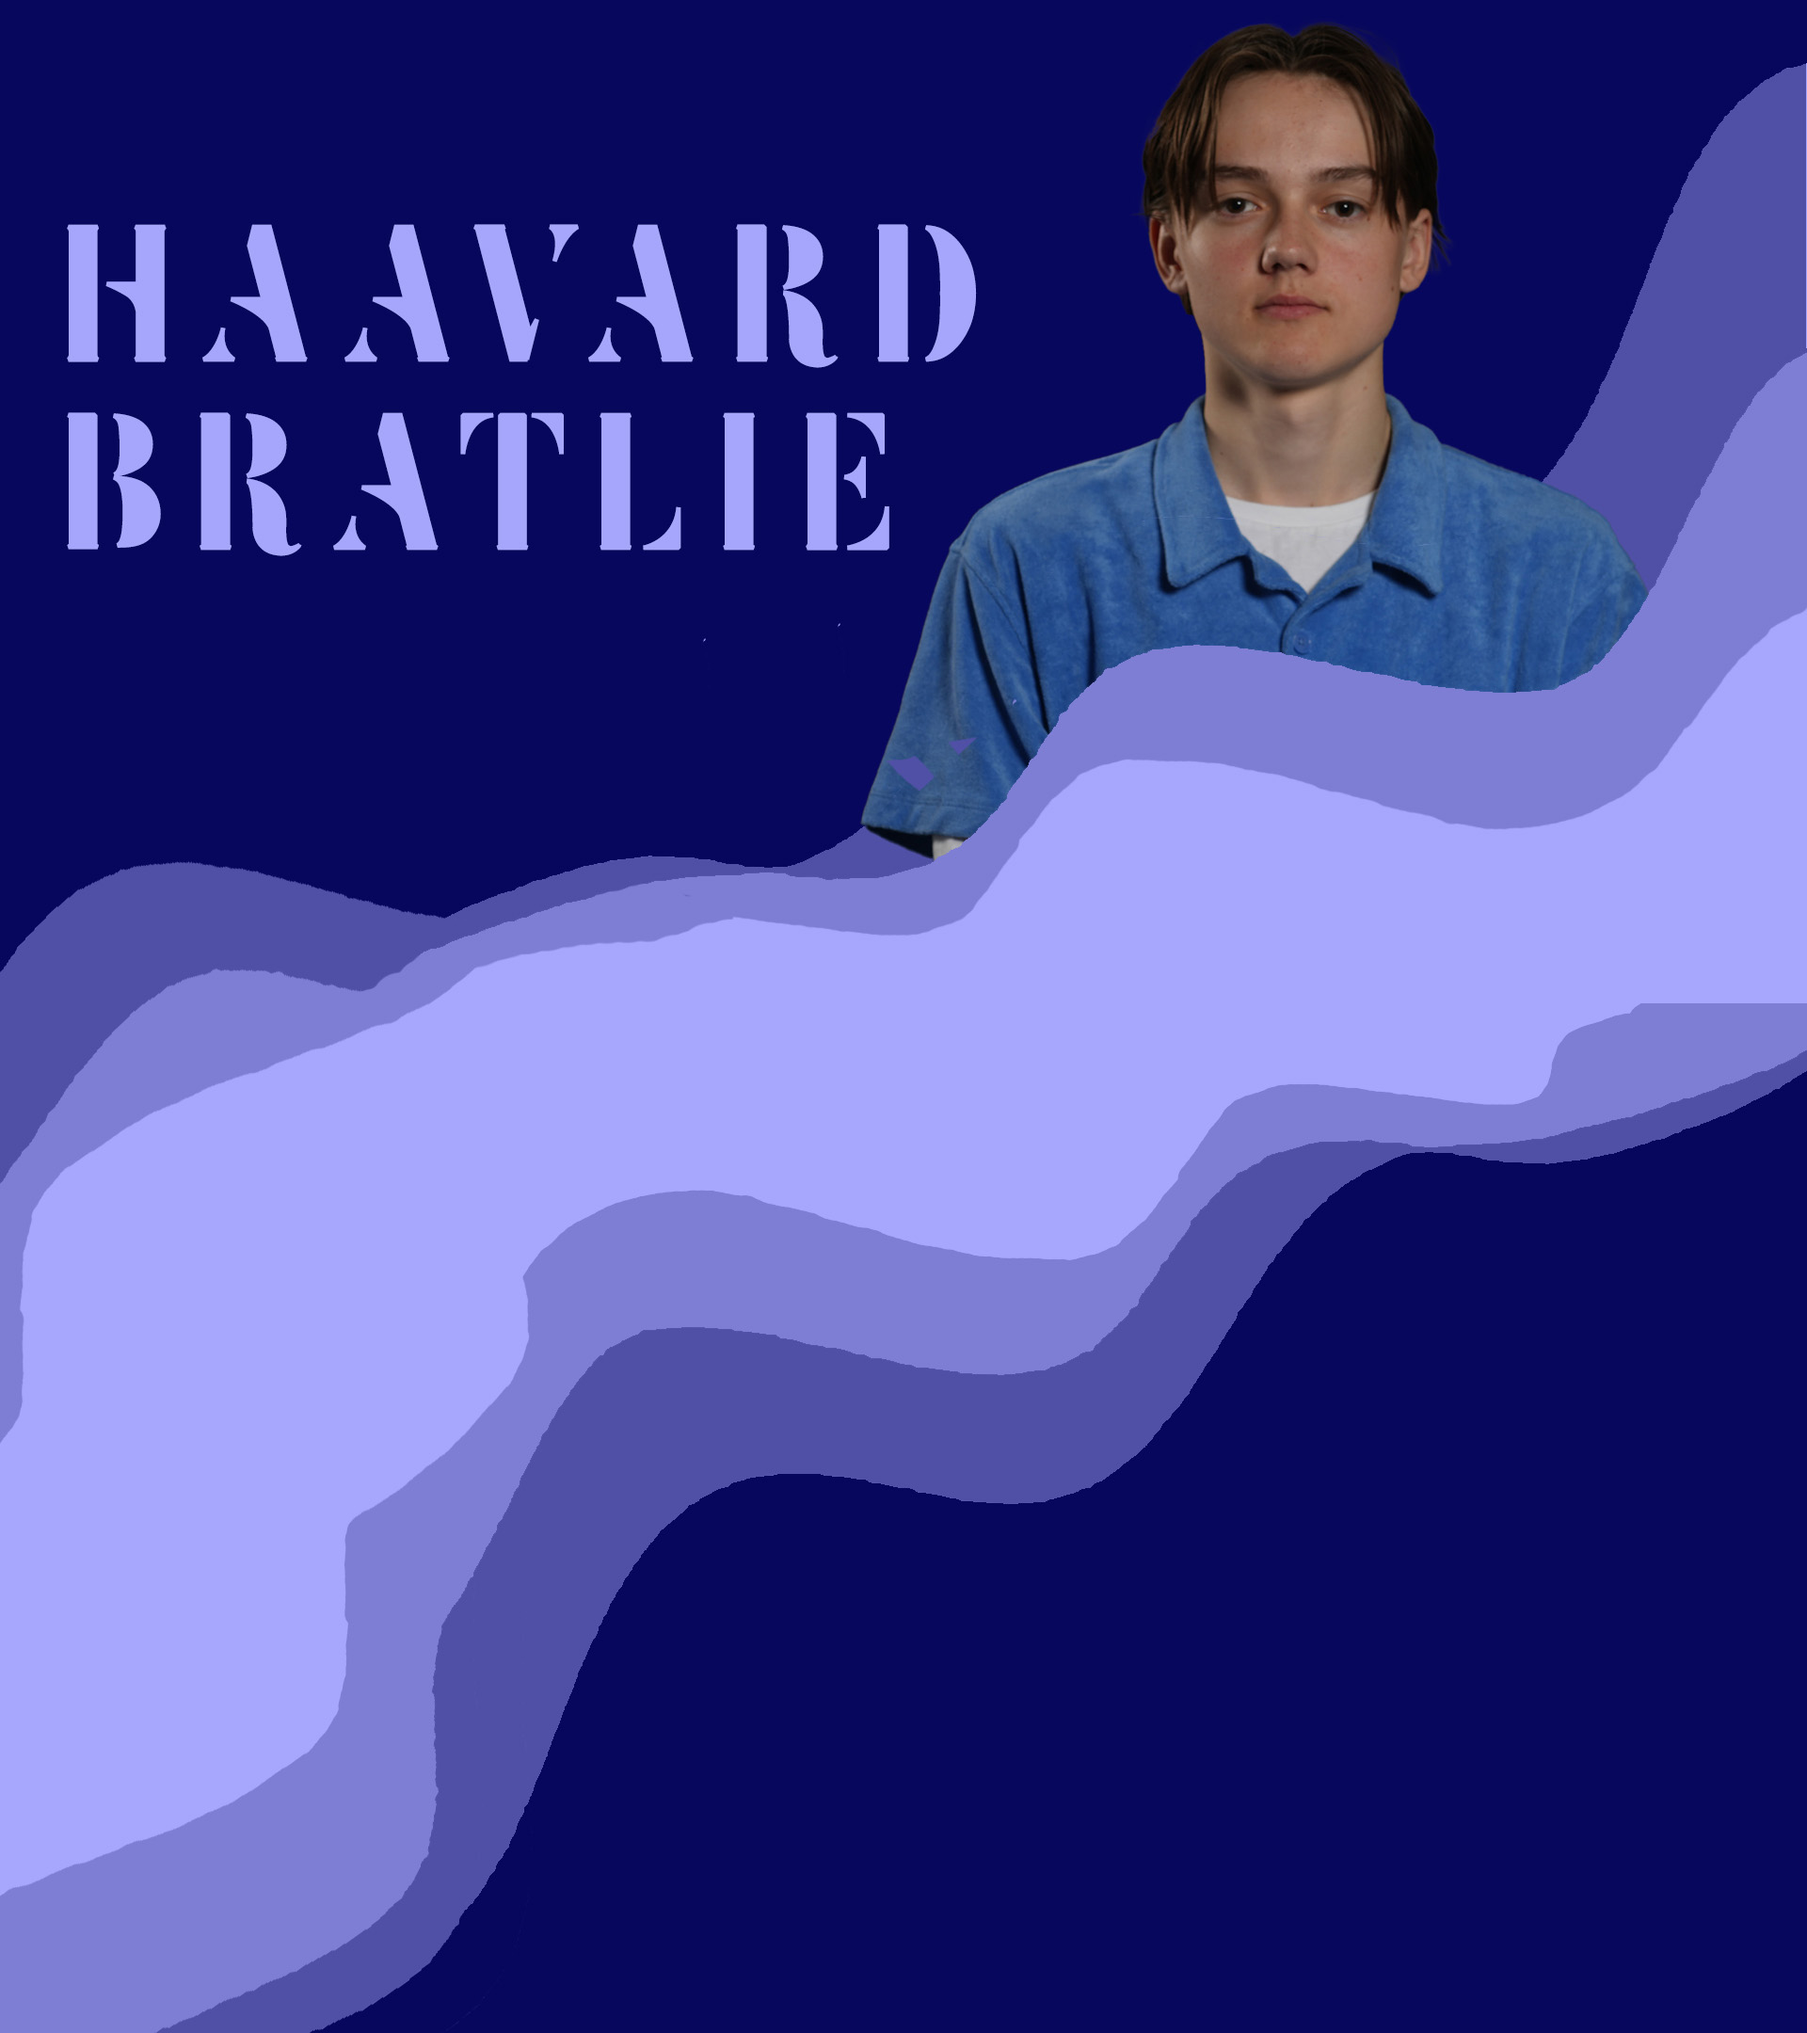
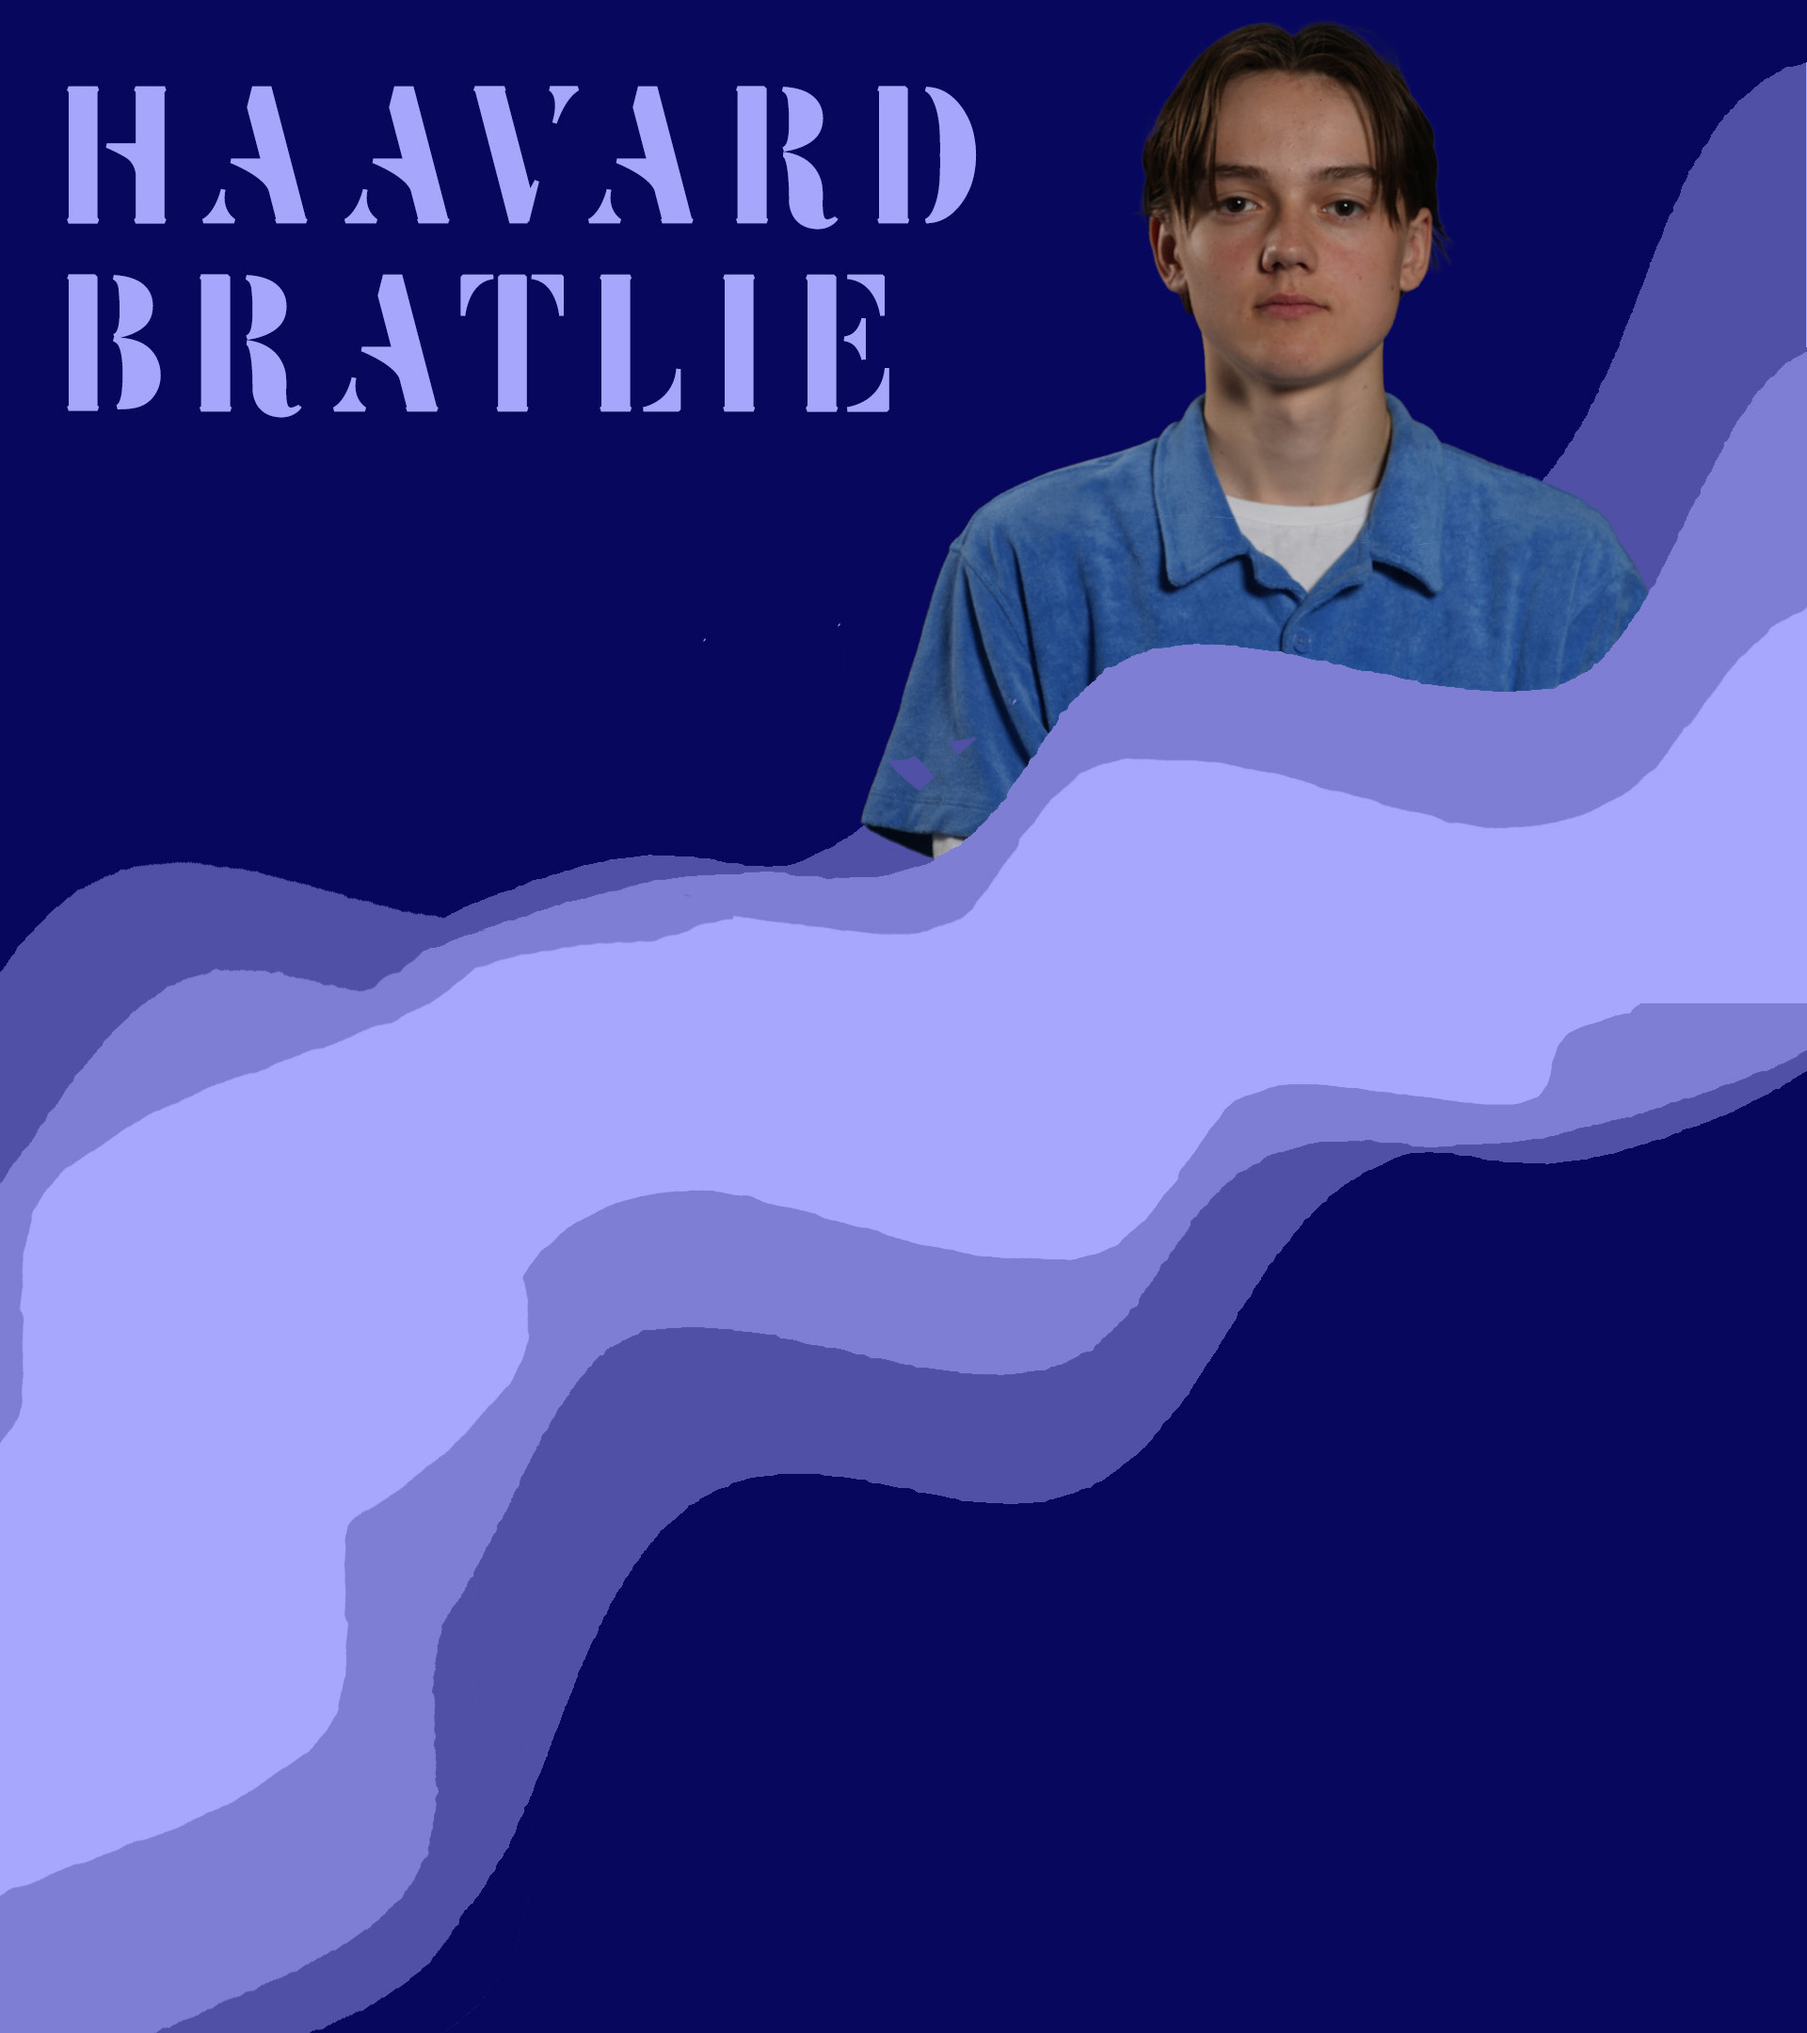
litt mer
styling av forms, endring av font, osv

Changed region(s): [[0.0312, 0.031, 0.5625, 0.2792]]

diff --git a/static/style.css b/static/style.css
@@ -2,9 +2,15 @@ body {
     margin: 0;
     z-index: 1;
     position: relative;
-    min-height: 220vh; /* Ensure the body is 200vh tall */
+    min-height: 100vh;
     display: flex;
-    flex-direction: column; /* Make the body a flex container */
+    flex-direction: column;
+    background-color: #07075d;
+    font-family: 'Poppins';
+}
+
+.home {
+    min-height: 210vh;
 }
 
 #bg::before {
@@ -14,54 +20,129 @@ body {
     top: 0;
     left: 0;
     width: 100%;
-    height: 200vh; /* Match the height of the body */
-    background-image: url('/static/bg_full_1920x2160.jpg'); /* Set the background image */
-    background-size: cover; /* Make the image cover the entire area */
-    background-repeat: no-repeat; /* Prevent the image from repeating */
-    background-position: top center; /* Move the image to start at the top and center it horizontally */
-    z-index: -1; /* Place it behind the content */
+    height: 200vh;
+    background-image: url('/static/bg_full_1920x2160.jpg');
+    background-size: cover;
+    background-repeat: no-repeat;
+    background-position: top center;
+    z-index: -1;
 }
 
 header {
     display: flex;
-    justify-content: space-between; /* Space between header content */
-    align-items: center; /* Vertically center items in the header */
-    width: 90%; /* Make the header span the full width */
+    justify-content: space-between;
+    align-items: center;
+    width: 90%;
     position: fixed;
     z-index: 500;
     background-color: #f1f1f1;
-    padding: 10px 5vw; /* Add padding for spacing */
-    box-shadow: 0 4px 6px rgba(0, 0, 0, 0.1); /* Add shadow to make it pop */
+    padding: 2px 5vw;
+    box-shadow: 0 4px 6px rgba(0, 0, 0, 0.1);
 }
 
 nav {
-    display: flex; /* Make the nav a flex container */
-    justify-content: space-evenly; /* Evenly distribute the links */
-    align-items: center; /* Vertically center the links */
-    width: 50%; /* Adjust the width of the nav bar */
-    margin-left: auto; /* Push the nav bar to the right */
+    display: flex;
+    justify-content: space-evenly;
+    align-items: center;
+    width: 50%;
+    margin-left: auto;
 }
 
 nav a {
-    text-decoration: none; /* Remove underline from links */
-    color: #333; /* Set link color */
-    padding: 0 10px; /* Add spacing between links */
-    font-weight: bold; /* Make the links bold */
-    transition: color 0.3s ease; /* Add a hover effect */
+    text-decoration: none;
+    color: #333;
+    padding: 0 10px;
+    font-weight: bold;
+    transition: color 0.3s ease;
 }
 
 nav a:hover {
-    color: #007BFF; /* Change color on hover */
+    color: #007BFF;
 }
 
 footer {
     display: flex;
-    margin-top: auto; /* Push the footer to the bottom */
-    width: 50%; /* Ensure the footer spans the full width */
-    background-color: #f1f1f1; /* Optional: Add a background color */
-    justify-content: space-between; /* Optional: Center the footer content */
-    padding: 10px 0; /* Optional: Add padding for spacing */
+    margin-top: auto;
+    width: 50%;
+    background-color: #f1f1f1;
+    justify-content: space-between;
+    padding: 10px 0;
     padding-right: 30%;
     padding-left: 20%;
-    box-shadow: 0 -4px 6px rgba(0, 0, 0, 0.1); /* Add shadow to make it pop */
+    box-shadow: 0 -4px 6px rgba(0, 0, 0, 0.1);
+}
+.login{
+    min-height: 15vh;
+}
+
+.registrer{
+    min-height: 15vh;
+}
+
+.form {
+    background-color: #ffffff;
+    padding: 20px 30px;
+    border-radius: 8px;
+    box-shadow: 0 4px 8px rgba(0, 0, 0, 0.1);
+    width: 100%;
+    max-width: 400px;
+    margin: 50px auto;
+    text-align: center;
+}
+
+.form h1 {
+    margin-bottom: 20px;
+    color: #333;
+    font-size: 24px;
+}
+
+.form label {
+    display: block;
+    font-weight: bold;
+    color: #555;
+    text-align: left;
+    margin-bottom: -8px;
+}
+
+.form input {
+    width: 100%;
+    padding: 10px;
+    margin-bottom: 10px;
+    border: 1px solid #ccc;
+    border-radius: 4px;
+    font-size: 16px;
+    box-sizing: border-box;
+}
+
+.form input:focus {
+    border-color: #007BFF;
+    outline: none;
+    box-shadow: 0 0 4px rgba(0, 123, 255, 0.5);
+}
+
+.form button {
+    background-color: #007BFF;
+    color: #fff;
+    padding: 10px 15px;
+    border: none;
+    border-radius: 4px;
+    font-size: 16px;
+    cursor: pointer;
+    transition: background-color 0.3s ease;
+    width: 100%;
+    margin-bottom: 3vh;
+}
+
+.form button:hover {
+    background-color: #0056b3;
+}
+
+.cv{
+    margin-top: 5vh;
+    text-decoration: underline;
+    color: black;
+
+}
+.cv:hover{
+    color: #0056b3;
 }

diff --git a/templates/registrer.html b/templates/registrer.html
@@ -1,19 +1,24 @@
 {% extends 'base.html' %}
 {% block content %}
 
-<h1>Registrer deg</h1>
-<form method="POST">
-    <label>Fornavn:</label><br>
-    <input type="text" name="fornavn" required><br>
-    <label>Etternavn:</label><br>
-    <input type="text" name="etternavn" required><br>
-    <label>E-post:</label><br>
-    <input type="email" name="epost" required><br>
-    <label>Passord:</label><br>
-    <input type="password" name="passord" required><br>
-    <button type="submit">Registrer</button>
-</form>
-<a href="/login">Allerede bruker? Logg inn her</a>
+<div class="registrer"></div>
+
+<div class="form">
+    <h1>Registrer deg</h1>
+    <form method="POST">
+        <label>Fornavn:</label><br>
+        <input type="text" name="fornavn" required><br>
+        <label>Etternavn:</label><br>
+        <input type="text" name="etternavn" required><br>
+        <label>E-post:</label><br>
+        <input type="email" name="epost" required><br>
+        <label>Passord:</label><br>
+        <input type="password" name="passord" required><br>
+        <button type="submit">Registrer</button>
+    </form>
+    <a href="/login">Allerede bruker? Logg inn her</a>
+
+</div>
 
 
 {% endblock %}

diff --git a/templates/base.html b/templates/base.html
@@ -5,6 +5,7 @@
     <meta name="viewport" content="width=device-width, initial-scale=1.0">
     <title>Document</title>
     <link rel="stylesheet" href="static/style.css">
+    <link href='https://fonts.googleapis.com/css?family=Poppins' rel='stylesheet'>
 </head>
 <body>
     
@@ -28,7 +29,7 @@
             <p>E-post: bratliehaavard@gmail.com</p>
             <p>Telefon: 484 31 084</p>            
         </div>
-        <a download="" href="/static/CV.pdf">Last ned CV-en min her</a>
+        <a class="cv" download="" href="/static/CV.pdf">Last ned CV-en min her</a>
     </footer>
 </body>
 </html>

diff --git a/templates/login.html b/templates/login.html
@@ -1,9 +1,10 @@
 {% extends 'base.html' %}
 {% block content %}
 
+<div class="login"></div>
 
-
-<h1>Logg inn</h1>
+<div class="form">
+    <h1>Logg inn</h1>
     <form method="POST">
         <label>E-post:</label><br>
         <input type="email" name="epost" required><br>
@@ -11,4 +12,7 @@
         <input type="password" name="passord" required><br>
         <button type="submit">Logg inn</button>
     </form>
+
+</div>
+
 {% endblock %}

diff --git a/templates/index.html b/templates/index.html
@@ -1,5 +1,6 @@
 {% extends 'base.html' %}
 {% block content %}
+<div class="home"></div>
 <div id="bg"></div>
 
 
